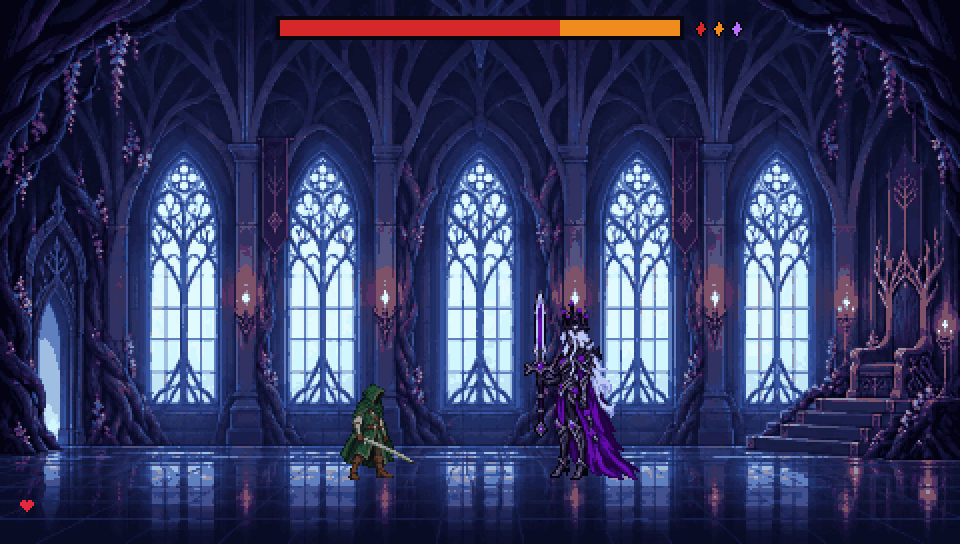
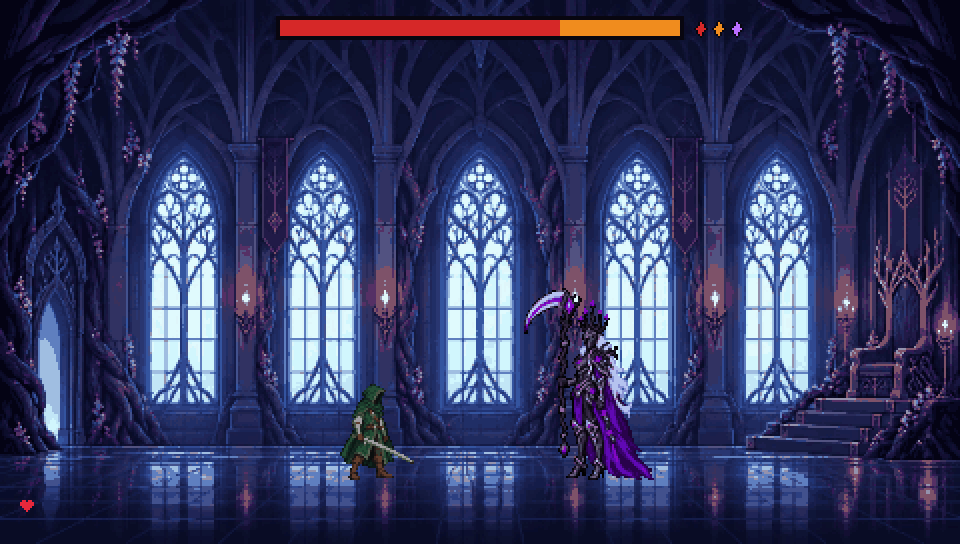
Neue Entwürfe der Königin: Sense mit Helm (v5) und Phase 2
- koenigin-idle-sense-helm-v5 und koenigin-p2-helmbruch-v1 ergänzt,
  v4 zu den älteren Entwürfen verschoben.
- PSP-Mockups mit den neuen Entwürfen neu erzeugt; Phase 2 schwebt 5 px.
- Abgleich mit den Dokumenten und Hinweis, dass feine Risse bei 96 px
  im nativen Sprite kräftiger gezeichnet werden müssen.

Claude-Session: https://claude.ai/code/session_01JNM23qRd8G2yZa2t1RaBmf

Changed region(s): [[0.5312, 0.5312, 0.6875, 0.9062]]

diff --git a/assets/PROMPTS.md b/assets/PROMPTS.md
@@ -2,17 +2,17 @@
 
 Prompts für den Bildgenerator von ChatGPT, 09.10.2026. Die Texte sind unverändert übernommen, nur der frühere Name „Arvid“ wurde durch „hero“ bzw. „held“ ersetzt. Einige Angaben sind durch spätere Entscheidungen überholt; das ist jeweils vermerkt.
 
-Der Prompt für `koenigin-idle-schwert-v3` (erster Austausch der Stangenwaffe gegen ein Schwert) lag nicht vor. Die Vorschläge `koenigin-v5` und `koenigin-p2-v1` stammen aus diesem Repository und sind noch nicht erzeugt.
+Der Prompt für `koenigin-idle-schwert-v3` (erster Austausch der Stangenwaffe gegen ein Schwert) lag nicht vor. Die Prompts `koenigin-v5` und `koenigin-p2-v1` stammen aus diesem Repository.
 
 ## koenigin-v5 — Vorschlag: Sense und Helm
 
-Noch nicht erzeugt. Bearbeitung von `koenigin-idle-schwert-v4`, entworfen in diesem Repository nach den Entscheidungen vom 09.10.2026.
+Erzeugt als `koenigin-idle-sense-helm-v5`. Bearbeitung von `koenigin-idle-schwert-v4`, entworfen in diesem Repository nach den Entscheidungen vom 09.10.2026.
 
 > Use case: precise-object-edit. Edit the attached pixel-art Queen asset. Make exactly two changes and keep everything else unchanged. 1) Replace the sword with a long war scythe held upright in the same hand: long slightly twisted shaft of dark root wood with two broad muted-gold bands and one small purple crystal at the bottom end; at the top the wood splits into short branch shapes that hold one large purple diamond crystal where the blade attaches; a long curved blade in pale lavender with one plain violet stripe along the cutting edge, the blade curving forward over her head toward the left. 2) Give her a fully closed black helmet that hides the entire face; only two small turquoise glowing eyes are visible in a narrow eye slit. The five tall irregular black branch points of her crown grow directly out of the top of the helmet, central point highest, tiny magenta crystals at the tips. Long ice-blue hair still flows from under the back of the helmet. Keep her pose facing left, armor, flowers, midnight-violet cloak, proportions and the SAME coarse pixel scale: large uniform square pixel clusters, no thin lines, no fine filigree, scythe drawn at the same chunky pixel density as her gauntlet and boots, at most 8 colors for the scythe. Entire figure and the whole scythe visible. Genuine transparent background. No scenery, no floor, no text, no border.
 
 ## koenigin-p2-v1 — Vorschlag: nach dem Helmbruch
 
-Noch nicht erzeugt. Bearbeitung von `koenigin-v5`.
+Erzeugt als `koenigin-p2-helmbruch-v1`. Bearbeitung von `koenigin-v5`.
 
 > Use case: precise-object-edit. Edit the attached pixel-art Queen asset to show her second combat phase. The closed black helmet is shattered: large parts have broken away, revealing a dark shadowy face with two turquoise-white glowing eyes without pupils; jagged helmet remnants remain at the sides and back, the five branch crown points still rise from the remnants. From the cracks of the helmet grow a few thin black roots with glowing magenta veins. Thin turquoise glowing crack lines run across her armor. Dark roots from the scythe shaft wind around her forearm, binding hand and scythe together. She floats a few pixels above the ground, her cloak lifted upward and backward as if underwater. Keep pose facing left, scythe, hair, armor, flowers, proportions and the same coarse pixel scale with large uniform square pixel clusters. Genuine transparent background. No scenery, no floor, no text, no border.
 
@@ -28,7 +28,7 @@ Transparenter Hintergrund: ja. *Überholt:* Stangenwaffe (ersetzt durch Schwert 
 
 > Use case: stylized-concept. Asset type: single idle pixel-art character sprite, isolated PNG with genuine transparent background. Input images are perspective/pixel-density references only. Create original Dark Queen of Yggdrasil in side-view gameplay stance facing LEFT, full crown and feet visible. Tall monumental black-armored female silhouette, ice-blue hair, five branch-tip crown with tiny magenta accents, closed dark armor, midnight violet cloak, restrained violet flowers and turquoise eyes, dark long branch-bladed polearm held at her side. Match flat fixed side-on 2D combat view in reference hall: almost profile torso and side view feet, no portrait composition or cinematic three-quarter angle. Clearly readable as a 64-pixel-high game character. Draw with deliberately LARGE uniform square pixel clusters corresponding to a 64x96 logical sprite canvas enlarged many times using nearest-neighbor, limited roughly 20-color palette, chunky controlled pixel shapes, NO tiny illustration details, NO painterly gradients or smooth contour. Queen occupies middle canvas with padding, no floor or scenery or shadow or text or border. Single standing idle pose, not a sprite sheet. Original design, do not copy reference figure.
 
-## koenigin-idle-schwert-v4 — aktuelle Königin
+## koenigin-idle-schwert-v4 — frühere Königin mit Schwert
 
 Bearbeitung von `koenigin-idle-schwert-v3`: einheitlichere Pixelgröße der Waffe.
 

diff --git a/assets/README.md b/assets/README.md
@@ -8,7 +8,8 @@ Die Dateien hier sind **komprimierte WebP-Kopien** zur Ansicht. Die PNG-Original
 
 | Datei | Größe | Inhalt |
 | --- | --- | --- |
-| [konzept/koenigin-idle-schwert-v4.webp](konzept/koenigin-idle-schwert-v4.webp) | 1024 × 1536, transparent | Königin in Ruhepose, Seitenansicht, Blick nach links. **Teilweise überholt:** zeigt Schwert statt Sense und offenes Gesicht statt Helm |
+| [konzept/koenigin-idle-sense-helm-v5.webp](konzept/koenigin-idle-sense-helm-v5.webp) | 1024 × 1536, transparent | **Königin Phase 0/1:** Ruhepose, Blick nach links, geschlossener Helm mit Kronen-Ästen, Sense aus Wurzelholz |
+| [konzept/koenigin-p2-helmbruch-v1.webp](konzept/koenigin-p2-helmbruch-v1.webp) | 1024 × 1536, transparent | **Königin Phase 2:** Helm gerissen, verdorbene Wurzeln mit magentafarbenen Adern, türkise Risse auf der Rüstung, Wurzeln binden Hand und Sense, schwebend mit wehendem Mantel |
 | [konzept/held-idle-hood-v3.webp](konzept/held-idle-hood-v3.webp) | 1024 × 1536, transparent | Held in Ruhepose, Seitenansicht, Blick nach rechts, grüner Kapuzenumhang, Gesicht im Schatten |
 | [konzept/thronsaal-pixel-v2.webp](konzept/thronsaal-pixel-v2.webp) | 1672 × 941, deckend | Thronsaal in fester Seitenansicht: Eingang links, erhöhter leerer Thron rechts, gotische Fenster |
 
@@ -20,21 +21,24 @@ Die Entwürfe verkleinert auf echte PSP-Auflösung, um Lesbarkeit und Aufteilung
 | --- | --- |
 | [psp/mockup-phase1-runde1.png](konzept/psp/mockup-phase1-runde1.png) (+ `-2x`) | 480 × 272: Phase 1, rote Leiste, Held mit 1 Herz |
 | [psp/mockup-phase2-spaeter.png](konzept/psp/mockup-phase2-spaeter.png) (+ `-2x`) | 480 × 272: Phase 2, orange Leiste, Held mit 3 von 5 Herzen |
-| [psp/koenigin-p1-64x96.png](konzept/psp/koenigin-p1-64x96.png) | Königin automatisch auf 58 × 96 verkleinert, 24 Farben |
+| [psp/koenigin-p1-sense-64x96.png](konzept/psp/koenigin-p1-sense-64x96.png) | Königin v5 automatisch auf 65 × 96 verkleinert, 24 Farben |
+| [psp/koenigin-p2-helmbruch-64x96.png](konzept/psp/koenigin-p2-helmbruch-64x96.png) | Königin Phase 2 automatisch auf 65 × 96 verkleinert, 24 Farben |
 | [psp/held-32x48.png](konzept/psp/held-32x48.png) | Held automatisch auf 37 × 48 verkleinert, 16 Farben |
 | [psp/paletten-phasen.png](konzept/psp/paletten-phasen.png) | Farbpaletten der Phasen 1–3 |
 
-Die verkleinerten Figuren sind automatisch erzeugt und nur ein Test. Echte Sprites müssen von Hand in nativer Größe gezeichnet werden. Im Mockup sind die Phase-2-Veränderungen der Königin noch nicht dargestellt.
+Die verkleinerten Figuren sind automatisch erzeugt und nur ein Test. Echte Sprites müssen von Hand in nativer Größe gezeichnet werden. Das Phase-2-Mockup zeigt die Königin nach dem Helmbruch, 5 px schwebend. **Erkenntnis:** Bei 96 px Höhe gehen die feinen türkisen Risse und die magentafarbenen Adern beim automatischen Verkleinern fast verloren. Im nativen Sprite müssen sie als wenige, kräftige Linien gezeichnet werden.
 
 ## Ältere Entwürfe
 
 | Datei | Größe | Inhalt |
 | --- | --- | --- |
+| [konzept/koenigin-idle-schwert-v4.webp](konzept/koenigin-idle-schwert-v4.webp) | 1024 × 1536, transparent | Königin mit Schwert und offenem Gesicht. Überholt durch v5, Grundlage der Farbpalette |
 | [konzept/thronsaal-v1.webp](konzept/thronsaal-v1.webp) | 1672 × 941, deckend | Gemalter Thronsaal mit Blick auf den Wurzelthron in der Mitte. Passt nicht zur festen Seitenansicht, bleibt als Stimmungsbild erhalten |
 
 ## Abgleich mit den Dokumenten
 
-- **Königin:** passt zu [KOENIGIN.md](../docs/KOENIGIN.md) bei Kronenspitzen, Kristallen, eisblauem Haar, Rüstung, Blüten und Mantel. **Weicht ab:** Statt der Sense trägt sie noch das Schwert, und statt des geschlossenen Helms ist ihr Gesicht offen. Ein Prompt für die Überarbeitung steht in [PROMPTS.md](PROMPTS.md#koenigin-v5--vorschlag-sense-und-helm).
+- **Königin v5:** passt zu [KOENIGIN.md](../docs/KOENIGIN.md): geschlossener Helm, nur türkise Augen im Sehschlitz, fünf Kronenspitzen mit Kristallen, eisblaues Haar, Sense mit Wurzelstiel, Goldbändern und Kristallen. Kleine Abweichung: drei statt zwei Goldbänder am Stiel.
+- **Königin Phase 2:** passt weitgehend zu [VISUAL_KOENIGIN.md](../docs/VISUAL_KOENIGIN.md). Abweichung: Der Helm ist gerissen und von Wurzeln durchbrochen, aber nicht in großen Teilen abgebrochen; das Gesicht bleibt ein dunkler Schatten. Die magentafarbenen Adern laufen auch durch die Wurzeln am Sensenstiel, die Verderbnis erfasst also schon die Sense.
 - **Held:** passt zu [HELD.md](../docs/HELD.md): grüner Kapuzenumhang, Gesicht vollständig verschattet, geschlechtsneutrale Silhouette.
 - **Thronsaal Pixel v2:** Der Thron ist hell und astförmig. Das eisblaue Licht durch einen Spalt im Stamm hinter dem Thron aus [KOENIGIN.md](../docs/KOENIGIN.md) fehlt noch.
 

diff --git a/docs/VISUAL_KOENIGIN.md b/docs/VISUAL_KOENIGIN.md
@@ -2,7 +2,7 @@
 
 Sprite-Spezifikation der Königin für den Pixel-Artist. Grundlage ist ein eingereichter Vorschlag vom 09.10.2026, angepasst an die festgelegten Entscheidungen und an die Grenzen der PSP-1000.
 
-**Verbindlich** sind: das Aussehen nach Entwurf v4 mit **Sense statt Schwert** und **geschlossenem Helm mit Krone**, der Helmbruch beim Wechsel zu Phase 2, die drei Kampfphasen mit den Lebensleisten Rot, Orange und Lila, der magische Impuls bei jedem Phasenwechsel, das Verhalten des Helden während der Verwandlung und das Kampftempo. Alles andere, also Angriffsnamen, Bildzahlen, Paletten der Phasen 2 und 3 und Effekte, ist ein **Vorschlag**.
+**Verbindlich** sind: das Aussehen nach den Entwürfen [v5](../assets/konzept/koenigin-idle-sense-helm-v5.webp) (Phase 0/1, **Sense** und **geschlossener Helm mit Krone**) und [Phase 2](../assets/konzept/koenigin-p2-helmbruch-v1.webp), der Helmbruch beim Wechsel zu Phase 2, die drei Kampfphasen mit den Lebensleisten Rot, Orange und Lila, der magische Impuls bei jedem Phasenwechsel, das Verhalten des Helden während der Verwandlung und das Kampftempo. Alles andere, also Angriffsnamen, Bildzahlen, Paletten der Phasen 2 und 3 und Effekte, ist ein **Vorschlag**.
 
 ## Eckdaten
 
@@ -26,7 +26,7 @@ Ein Bildkonzept in echter PSP-Auflösung liegt in [assets/konzept/psp/](../asset
 | Lebensleiste | – | **Rot** | **Orange** | **Lila** |
 | Zustand | Intro, Dialoge, Warten, Abwesenheit des Helden | Kampf | Kampf | Kampf |
 | Bewegung | Sitzt auf dem Thron | Schreitet, läuft | Gleitet, 5 px über dem Boden | Schwebt, 20 px über dem Boden |
-| Aussehen | Wie Entwurf v4, mit geschlossenem Helm | Wie Phase 0 | **Helm zerbrochen**, Gesicht sichtbar, Risse leuchten türkis, verdorbene Wurzeln aus den Helmresten | Teile der Rüstung zu Wurzelholz, Flügel aus Wurzeln |
+| Aussehen | Wie Entwurf v5 | Wie Phase 0 | **Helm zerbrochen**, Gesicht sichtbar, Risse leuchten türkis, verdorbene Wurzeln aus den Helmresten | Teile der Rüstung zu Wurzelholz, Flügel aus Wurzeln |
 | Sense | In der Hand | In der Hand | Wurzeln umschlingen den Unterarm | Mit dem Arm verschmolzen, Stielwurzeln gehen in die Flügel über |
 | Aura | Keine | Keine | Wenige eisblaue Partikel | Blätter, Licht, Wurzeln im Saal |
 | Angriffe | – | 3 Sensenangriffe | 3 magische Angriffe mit Flächenschaden | 3 Wurzel- und Erinnerungsangriffe mit Flächenschaden |
@@ -288,9 +288,9 @@ Animationen für Enden werden erst festgelegt, wenn die Enden geschrieben sind.
 
 ## Farbpaletten
 
-Grundlage ist der Entwurf [koenigin-idle-schwert-v4](../assets/konzept/koenigin-idle-schwert-v4.webp). Übersicht als Bild: [paletten-phasen.png](../assets/konzept/psp/paletten-phasen.png).
+Grundlage sind die Entwürfe v4 und v5 (gleiche Rüstungs-, Haar- und Mantelfarben). Übersicht als Bild: [paletten-phasen.png](../assets/konzept/psp/paletten-phasen.png).
 
-### Phase 0 und 1 — aus Entwurf v4
+### Phase 0 und 1 — aus den Entwürfen v4 und v5
 
 | Name | Hex | Verwendung |
 | --- | --- | --- |

diff --git a/docs/KOENIGIN.md b/docs/KOENIGIN.md
@@ -117,7 +117,7 @@ Ein mögliches Gefolge besteht aus ehemaligen Hütern und schwurgebundenen Ritte
 1. **Charakterporträt:** Frontal und aufrecht unter einem Wurzelbogen; Blick und Rüstung stehen im Mittelpunkt.
 2. **Thronmotiv:** Ruhige Sitzhaltung mit geöffneten Händen auf den Armlehnen. Äste bilden hinter ihr eine zweite Krone.
 3. **Titelmotiv:** Gotische Glasfenster-Komposition mit dem Weltenbaum im Hintergrund. Der Titel steht lesbar in zwei Zeilen: „Dunkle Königin“ / „von Yggdrasil“.
-4. **Spielfigur:** Pixel-Art in Seitenansicht mit Blick nach links, Helm mit Krone, die Sense in der Hand. Der aktuelle Entwurf [koenigin-idle-schwert-v4](../assets/konzept/koenigin-idle-schwert-v4.webp) zeigt noch Schwert und offenes Gesicht und muss überarbeitet werden (Prompt in [PROMPTS.md](../assets/PROMPTS.md#koenigin-v5--vorschlag-sense-und-helm)).
+4. **Spielfigur:** Pixel-Art in Seitenansicht mit Blick nach links, Helm mit Krone, die Sense in der Hand. Aktuelle Entwürfe: [Phase 0/1](../assets/konzept/koenigin-idle-sense-helm-v5.webp) und [Phase 2 nach dem Helmbruch](../assets/konzept/koenigin-p2-helmbruch-v1.webp).
 
 Ein gemeinsames Titelbild kann den Helden klein im Vordergrund und die Königin erhöht auf dem Thron zeigen. Eine leuchtende Wurzel verbindet die beiden Bildbereiche. Der Held erhält dabei keine modernen Gegenstände.
 
